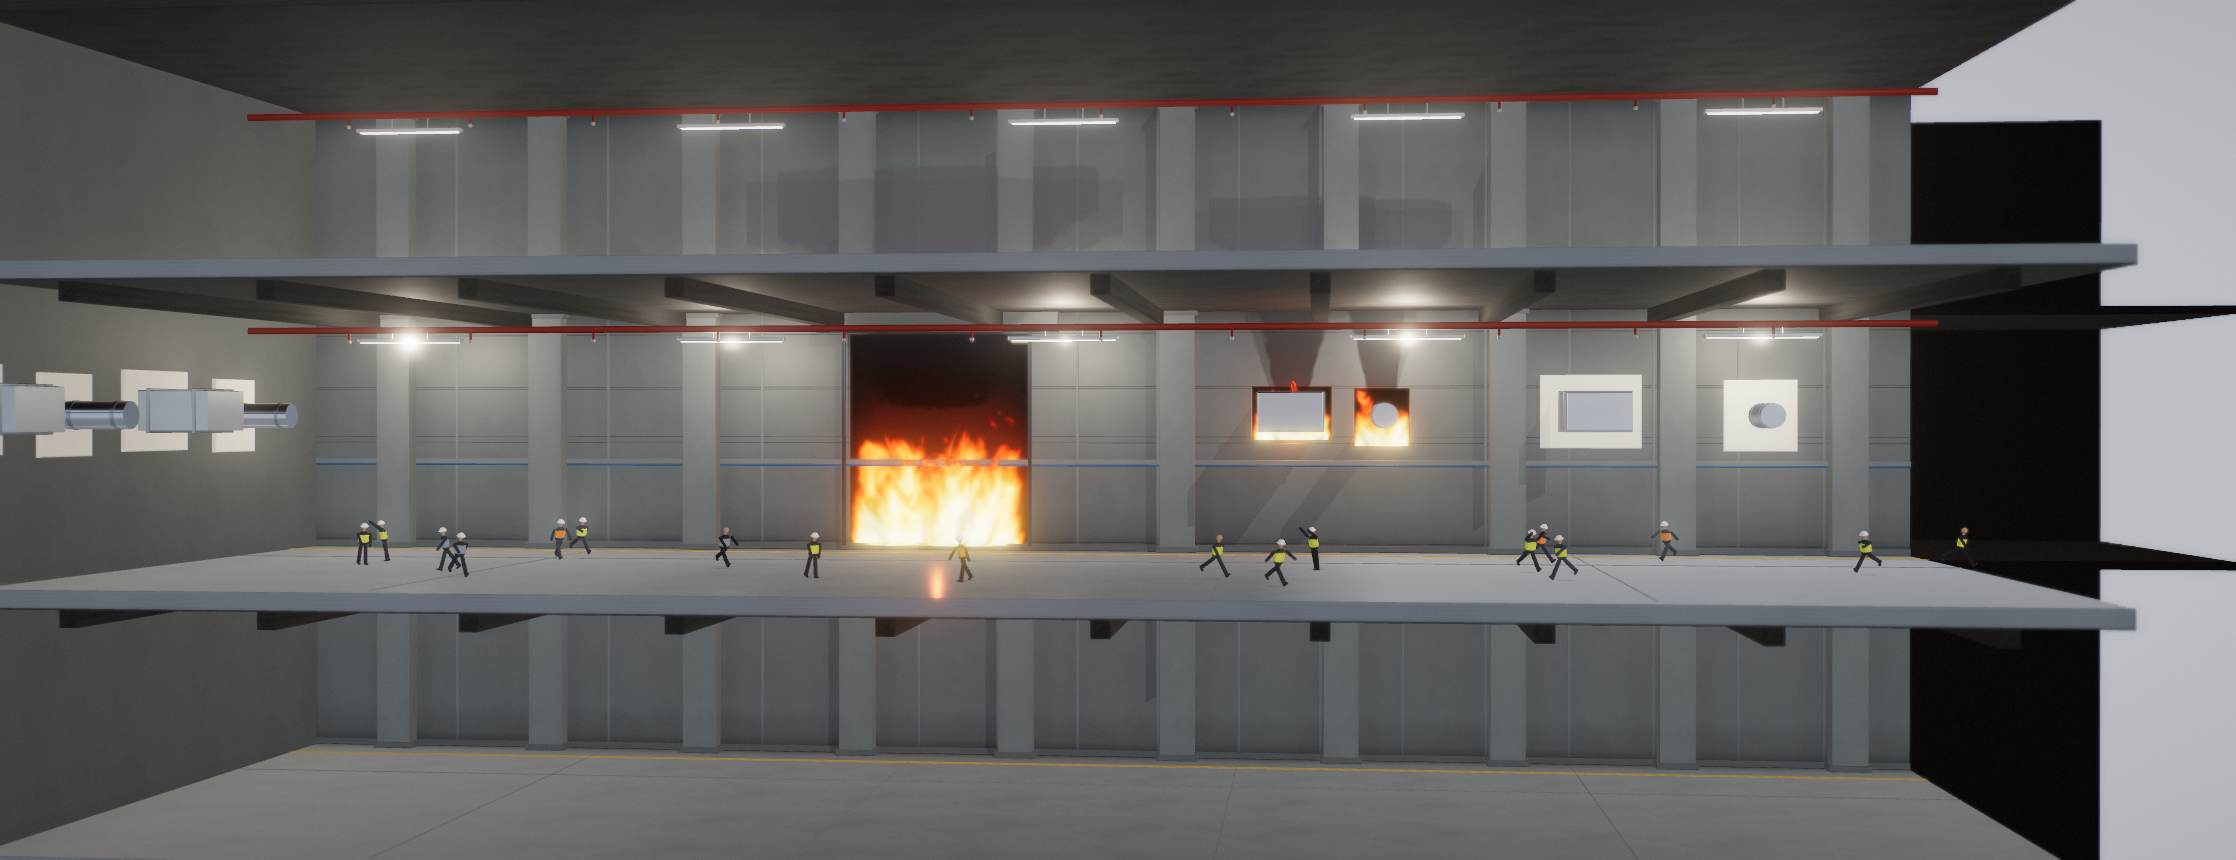
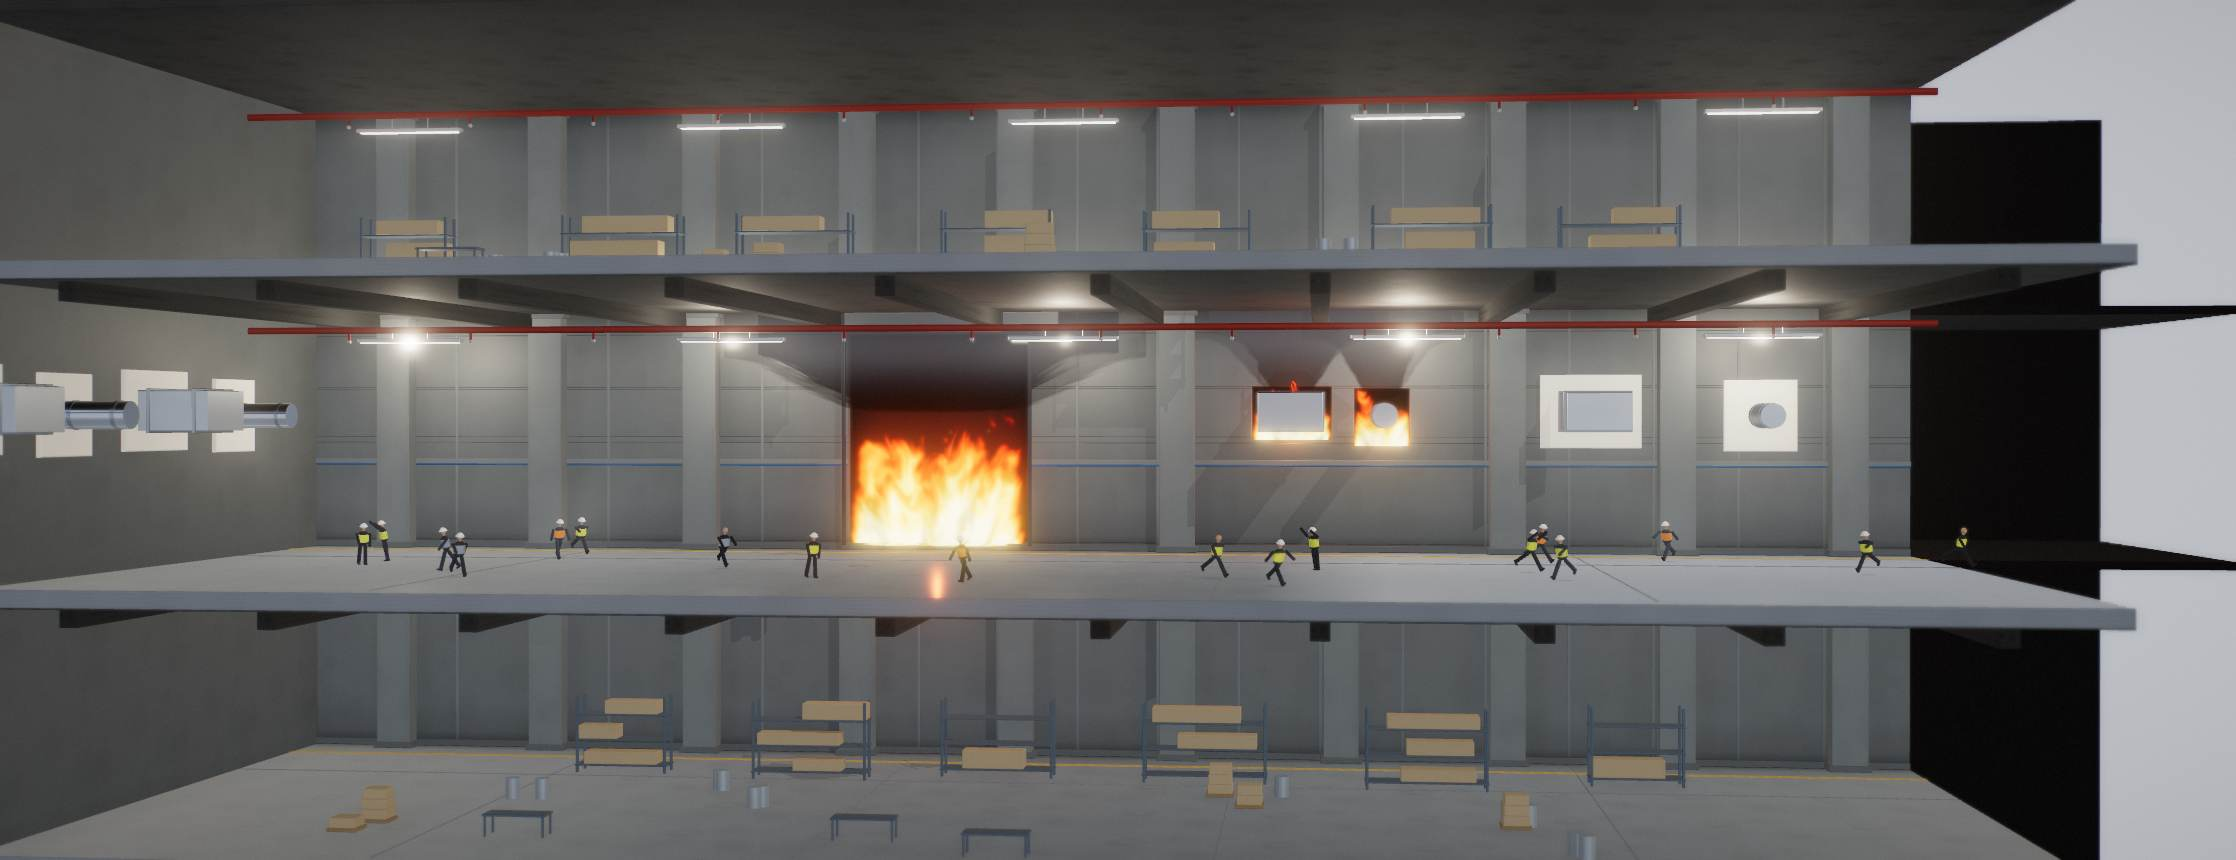
공중에 뜬 파란 줄 제거 · 불난 곳 연기 · 위아래 층 집기
사용자 지적 2건 + 다음 단계.

· **파란 유도 라인이 셔터 개구부를 가로질러 공중에 떠 있었다.** 벽에 칠한 선인데
  폭 전체로 한 번에 그린 탓. paintLine() 으로 그 높이에 걸린 개구부를 피해 토막으로 그린다.
· **연기가 안 보이던 원인** — 연기 판 높이가 12m 라 화재층 천장(6.9)을 뚫고 위층까지 뻗어
  있었다. 슬래브에 가려 정작 보이는 건 연기가 옅은 아랫부분뿐. 판을 천장까지로 자르고
  uCeil 을 천장 바로 아래에 둬서 거기서 옆으로 깔리게 했다(천장 제트).
  셔터 개구부는 와이드의 주역이라 가장 짙고 넓게.
· **위·아래 층 집기** — 텅 비어 있으면 '멀쩡한 층'이 아니라 '안 만든 층'으로 보인다.
  적재 랙·파렛트·작업대·드럼통. 사람 없이도 스케일이 읽힌다.
  ⚠ 배치에 Math.random 을 쓰면 열 때마다 배열이 달라져 **포스터와 어긋난다** → 씨드 난수.
  ⚠ 랙 파랑을 진하게 주면 불보다 먼저 눈에 들어온다 → 채도를 눌렀다.

diff --git a/company-site/assets/js/hero3d.js b/company-site/assets/js/hero3d.js
@@ -1223,8 +1223,21 @@ export async function initHero3D(canvas, host) {
       box(FW, 0.34, 0.1, matWallSide, (WX0 + WX1) / 2, L.y + 0.17, WALL_FRONT + 0.06, scene, false, true);
     }
     // 허리 라인 + 브랜드 파랑 유도 라인 — 화재층에만. 관리되는 시설의 신호다.
-    box(FW, 0.26, 0.12, matCol, (WX0 + WX1) / 2, FIRE_Y + 4.4, WALL_FRONT + 0.07, scene, false, false);
-    box(FW, 0.09, 0.13, matAccent, (WX0 + WX1) / 2, FIRE_Y + 4.24, WALL_FRONT + 0.075, scene, false, false);
+    // ⚠ **개구부를 가로지르면 안 된다.** 벽에 칠한 선이므로 개구부에서는 끊겨야 하는데,
+    //    폭 전체로 한 번에 그렸더니 셔터 개구부 한가운데를 지나 **공중에 떠 있는 줄**로 보였다.
+    //    (사용자가 지적한 문제) 그 높이에 걸린 개구부만 피해서 토막으로 그린다.
+    const paintLine = (y, h, d, mat, dz) => {
+      const gaps = OPENINGS.filter((o) => y > o.y - o.hh - 0.05 && y < o.y + o.hh + 0.05)
+        .map((o) => [o.x - o.hw, o.x + o.hw]).sort((a, b) => a[0] - b[0]);
+      let x = WX0;
+      const seg = (x0, x1) => {
+        if (x1 - x0 > 0.05) box(x1 - x0, h, d, mat, (x0 + x1) / 2, y, WALL_FRONT + dz, scene, false, false);
+      };
+      for (const [g0, g1] of gaps) { seg(x, g0); x = Math.max(x, g1); }
+      seg(x, WX1);
+    };
+    paintLine(FIRE_Y + 4.4,  0.26, 0.12, matCol,    0.07);
+    paintLine(FIRE_Y + 4.24, 0.09, 0.13, matAccent, 0.075);
 
     // ---- 층 슬래브 ---- 벽에서 카메라 쪽으로 뻗어 나오다 SECT_Z 에서 잘린다.
     //  잘린 단면(두께 0.7)이 그대로 보이는 게 '건물을 잘랐다'는 신호다.
@@ -1316,6 +1329,83 @@ export async function initHero3D(canvas, host) {
     box(WX1 - WX0 + 30, 0.4, 34, matDark, (WX0 + WX1) / 2, FIRE_Y - 0.4, WALL_Z - 17, scene, false, false); // 화재실 바닥
     box(WX1 - WX0 + 30, 0.4, 34, matDark, (WX0 + WX1) / 2, FIRE_CEIL - 0.2, WALL_Z - 17, scene, false, false); // 화재실 천장
   })();
+
+  // =====================================================================
+  //  층 집기 — 단면 와이드에서 위·아래 층이 텅 비어 있으면 '멀쩡한 층'이 아니라
+  //  '아직 안 만든 층'으로 보인다. 집기가 들어가야 층이 **쓰이고 있는 공간**이 되고,
+  //  동시에 사람 없이도 스케일이 읽힌다(마가켐은 사무 가구로 같은 일을 했다).
+  //
+  //  ⚠ 배치에 Math.random 을 쓰면 안 된다. 페이지를 열 때마다 배열이 달라지는데
+  //     포스터는 한 번 구워 고정이므로, 로딩이 끝나는 순간 집기가 **통째로 재배치**된다.
+  //     → 씨드 난수로 항상 같은 배열이 나오게 한다.
+  // =====================================================================
+  function mulberry32(a) {
+    return function () {
+      a |= 0; a = (a + 0x6D2B79F5) | 0;
+      let t = Math.imul(a ^ (a >>> 15), 1 | a);
+      t = (t + Math.imul(t ^ (t >>> 7), 61 | t)) ^ t;
+      return ((t ^ (t >>> 14)) >>> 0) / 4294967296;
+    };
+  }
+  // ⚠ 랙 파랑을 진하게 주면 **불보다 먼저 눈에 들어온다.** 마가켐이 건물을 무채색으로 눌러
+  //    불과 제품에만 채도를 준 이유가 이것이다. 집기는 있되 시선을 끌면 안 된다.
+  const matRack  = new THREE.MeshStandardMaterial({ color: 0x5c6b7a, roughness: 0.58, metalness: 0.3, envMapIntensity: 0.65 });
+  const matCrate = new THREE.MeshStandardMaterial({ color: 0xa8977c, roughness: 0.92 });
+  const matPallet= new THREE.MeshStandardMaterial({ color: 0x8d7a5c, roughness: 0.95 });
+  const matDrum  = new THREE.MeshStandardMaterial({ color: 0x9aa3ab, roughness: 0.42, metalness: 0.6, envMapIntensity: 0.9 });
+
+  function buildFloorContents(L, seed) {
+    const R = mulberry32(seed);
+    const y = L.y;
+    // 벽 앞 통행대(안전선 안쪽)와 잘린 면 근처는 비워 둔다 — 동선이 있어야 창고로 읽힌다
+    const z0 = WALL_FRONT + 4.2, z1 = SECT_Z - 3.5;
+    const rack = (cx, cz, len) => {
+      const H = Math.min(L.h - 1.6, 3.6), D = 1.2;
+      for (const sx of [-1, 1]) for (const sz of [-1, 1])            // 기둥 4
+        box(0.12, H, 0.12, matRack, cx + sx * (len / 2 - 0.1), y + H / 2, cz + sz * (D / 2 - 0.1), scene, true, true);
+      for (let i = 0; i < 3; i++) {                                   // 선반 3단 + 적재물
+        const sy = y + 0.35 + i * (H - 0.5) / 2.6;
+        box(len, 0.07, D, matRack, cx, sy, cz, scene, true, true);
+        if (R() > 0.28) {
+          const bw = len * (0.42 + R() * 0.4), bh = 0.5 + R() * 0.35;
+          box(bw, bh, D * 0.8, matCrate, cx + (R() - 0.5) * (len - bw), sy + bh / 2 + 0.04, cz, scene, true, true);
+        }
+      }
+    };
+    const palletStack = (cx, cz) => {
+      box(1.25, 0.14, 1.05, matPallet, cx, y + 0.07, cz, scene, true, true);
+      const n = 1 + Math.floor(R() * 3);
+      for (let i = 0; i < n; i++)
+        box(1.1 - i * 0.06, 0.42, 0.92 - i * 0.05, matCrate, cx, y + 0.14 + 0.21 + i * 0.42, cz, scene, true, true);
+    };
+    const bench = (cx, cz) => {
+      box(2.6, 0.09, 0.95, matRack, cx, y + 0.88, cz, scene, true, true);
+      for (const sx of [-1, 1]) for (const sz of [-1, 1])
+        box(0.09, 0.85, 0.09, matRack, cx + sx * 1.2, y + 0.43, cz + sz * 0.4, scene, true, true);
+    };
+    const drums = (cx, cz) => {
+      for (let i = 0; i < 2 + Math.floor(R() * 3); i++) {
+        const d = new THREE.Mesh(new THREE.CylinderGeometry(0.31, 0.31, 0.9, 16), matDrum);
+        d.position.set(cx + (R() - 0.5) * 1.8, y + 0.45, cz + (R() - 0.5) * 1.4);
+        d.castShadow = true; d.receiveShadow = true; scene.add(d);
+      }
+    };
+    // 벽을 따라 늘어선 랙 한 줄 + 바닥에 흩어진 집기
+    for (let cx = WX0 + 9; cx < WX1 - 6; cx += 9.5) {
+      if (R() > 0.22) rack(cx + (R() - 0.5) * 1.5, z0 + 1.2 + R() * 2.0, 4.2 + R() * 1.6);
+    }
+    for (let i = 0; i < 14; i++) {
+      const cx = WX0 + 6 + R() * (WX1 - WX0 - 12);
+      const cz = z0 + 5.0 + R() * (z1 - z0 - 5.0);
+      const k = R();
+      if (k < 0.42) palletStack(cx, cz);
+      else if (k < 0.74) bench(cx, cz);
+      else drums(cx, cz);
+    }
+  }
+  // 위·아래 층에만 — 화재층은 주역(개구부·보드·셔터)이 가려지면 안 된다
+  buildFloorContents(LEVELS[0], 20260805);
+  buildFloorContents(LEVELS[2], 77712345);
 
   // ---- 관통 배관 + 밴드 ----
   (function buildPipe() {
@@ -1553,15 +1643,22 @@ export async function initHero3D(canvas, host) {
   }
   // sheet: h 불 판 높이 / wpad 개구부보다 넓힐 폭 / z 겹의 z 오프셋 / alpha 겹별 알파 / boost 뻗는 높이 / speed 흐름
   // smoke: bottom 연기가 시작되는 높이 / h 판 높이 / wpad / z / alpha / density 짙기 / speed 상승 속도
+  // ⚠ **연기 판의 높이는 화재층 천장(FIRE_CEIL)에 맞춰야 한다.**
+  //    단면 구성으로 바뀌기 전에는 층 구분이 없어서 판을 12m 씩 세워뒀는데, 이제 그 높이면
+  //    슬래브를 뚫고 위층까지 올라간다. 슬래브에 가려 **정작 보이는 건 연기가 옅은 아랫부분뿐**이라
+  //    "불은 나는데 연기가 없다"로 보였다(사용자 지적). 천장까지로 잘라야 짙은 구간이 화면에 든다.
+  //    그리고 uCeil 을 천장 바로 아래에 두어 거기서 옆으로 깔리게 한다 — 실제 화재의 천장 제트.
+  const smokeH = (bottom) => FIRE_CEIL - bottom + 0.25;   // 천장에 살짝 물리게
   const rigPen = makeFireRig(PEN, 1.0, 0.25, 34,
     { h: 4.6, wpad: 0.5, z: [0.04, 0.5, 1.0], alpha: [0.96, 0.66, 0.4], boost: 2.02, speed: 1.7 },
-    { bottom: PEN.y + 0.7, h: 10.0, wpad: 4.0, z: [0.28, 0.9], alpha: [0.5, 0.32], density: 2.9, speed: 0.5, narrow: 0.12, flare: 0.4 });
+    { bottom: PEN.y + 0.7, h: smokeH(PEN.y + 0.7), wpad: 4.0, z: [0.28, 0.9], alpha: [0.56, 0.36], density: 3.1, speed: 0.5, narrow: 0.12, flare: 0.5, ceil: 0.72, ceilSpread: 0.9 });
   const rigDkt = makeFireRig(DUCT, 1.1, 0.25, 36,
     { h: 4.6, wpad: 0.5, z: [0.04, 0.5, 1.0], alpha: [0.96, 0.66, 0.4], boost: 2.02, speed: 1.75 },
-    { bottom: DUCT.y + 0.7, h: 10.0, wpad: 4.2, z: [0.28, 0.9], alpha: [0.5, 0.32], density: 2.9, speed: 0.52, narrow: 0.13, flare: 0.4 });
+    { bottom: DUCT.y + 0.7, h: smokeH(DUCT.y + 0.7), wpad: 4.2, z: [0.28, 0.9], alpha: [0.56, 0.36], density: 3.1, speed: 0.52, narrow: 0.13, flare: 0.5, ceil: 0.72, ceilSpread: 0.9 });
   const rigBig = makeFireRig(BIG, 2.4, 0.0, 62,
     { h: 12.0, wpad: 1.0, z: [0.04, 0.75, 1.6], alpha: [0.97, 0.7, 0.44], boost: 1.88, speed: 1.5 },
-    { bottom: BIG.y + 1.2, h: 12.5, wpad: 7.0, z: [0.4, 1.4], alpha: [0.6, 0.4], density: 3.0, speed: 0.42, narrow: 0.2, flare: 0.34 });
+    // 셔터 개구부는 크고 화재층 와이드에서 주역이라 연기를 가장 짙고 넓게
+    { bottom: BIG.y + 1.2, h: smokeH(BIG.y + 1.2), wpad: 9.0, z: [0.4, 1.4], alpha: [0.72, 0.5], density: 3.4, speed: 0.42, narrow: 0.26, flare: 0.62, ceil: 0.66, ceilSpread: 1.5 });
 
   // ---- 조명 ----
   // 앰비언트(hemi)를 낮추고 방향광(key)을 올리면 면마다 명암이 갈려 형태가 또렷해진다.

diff --git a/company-site/index.html b/company-site/index.html
@@ -21,15 +21,15 @@
 
     <link rel="icon" type="image/png" href="assets/images/doenc_mark.png">
     <!-- 히어로 첫 화면 — 화면 비율 단계별로 한 장만 받는다 (경계는 style.css / hero3d.js resize() 와 동일) -->
-    <link rel="preload" as="image" href="assets/images/hero-poster-w.jpg?v=20260805c" media="(min-aspect-ratio: 8/5)" fetchpriority="high">
-    <link rel="preload" as="image" href="assets/images/hero-poster-m.jpg?v=20260805c" media="(min-aspect-ratio: 6/5) and (max-aspect-ratio: 8/5)" fetchpriority="high">
-    <link rel="preload" as="image" href="assets/images/hero-poster-n.jpg?v=20260805c" media="(min-aspect-ratio: 4/5) and (max-aspect-ratio: 6/5)" fetchpriority="high">
-    <link rel="preload" as="image" href="assets/images/hero-poster-p.jpg?v=20260805c" media="(max-aspect-ratio: 4/5)" fetchpriority="high">
+    <link rel="preload" as="image" href="assets/images/hero-poster-w.jpg?v=20260805d" media="(min-aspect-ratio: 8/5)" fetchpriority="high">
+    <link rel="preload" as="image" href="assets/images/hero-poster-m.jpg?v=20260805d" media="(min-aspect-ratio: 6/5) and (max-aspect-ratio: 8/5)" fetchpriority="high">
+    <link rel="preload" as="image" href="assets/images/hero-poster-n.jpg?v=20260805d" media="(min-aspect-ratio: 4/5) and (max-aspect-ratio: 6/5)" fetchpriority="high">
+    <link rel="preload" as="image" href="assets/images/hero-poster-p.jpg?v=20260805d" media="(max-aspect-ratio: 4/5)" fetchpriority="high">
 
     <!-- 3D 모듈을 미리 받아둔다. 없으면 main.js → hero3d.js → three.module → three.core 로
          **네 번 순차 왕복**하느라 750KB 를 다 받을 때까지 포스터가 계속 떠 있는다.
          ⚠ href 는 실제 import 주소와 **글자 그대로 같아야** 캐시가 재사용된다(쿼리 포함). -->
-    <link rel="modulepreload" href="assets/js/hero3d.js?v=20260805c">
+    <link rel="modulepreload" href="assets/js/hero3d.js?v=20260805d">
     <link rel="modulepreload" href="assets/js/vendor/three.module.min.js">
     <link rel="modulepreload" href="assets/js/vendor/three.core.min.js">
 
@@ -76,7 +76,7 @@
     <link rel="stylesheet" href="https://cdn.jsdelivr.net/gh/orioncactus/pretendard@v1.3.9/dist/web/variable/pretendardvariable-dynamic-subset.min.css"
           media="print" onload="this.media='all'">
     <noscript><link rel="stylesheet" href="https://cdn.jsdelivr.net/gh/orioncactus/pretendard@v1.3.9/dist/web/variable/pretendardvariable-dynamic-subset.min.css"></noscript>
-    <link rel="stylesheet" href="assets/css/style.css?v=20260805c">
+    <link rel="stylesheet" href="assets/css/style.css?v=20260805d">
     <noscript><style>.reveal{opacity:1!important;transform:none!important}</style></noscript>
 </head>
 <body id="top">
@@ -178,7 +178,7 @@
         <section class="hero" id="home">
             <!-- ▼ 히어로 미디어 슬롯
                  실사 영상/사진을 받으면 아래 주석 한 줄만 살리면 도면 그래픽이 자동 교체됩니다.
-                 <video autoplay muted loop playsinline poster="assets/images/hero-poster-w.jpg?v=20260805c">
+                 <video autoplay muted loop playsinline poster="assets/images/hero-poster-w.jpg?v=20260805d">
                      <source src="assets/images/hero.mp4" type="video/mp4"></video>
                  또는  <img src="assets/images/hero.jpg" alt="">                        -->
             <div class="hero-media" id="heroMedia" aria-hidden="true">
@@ -917,14 +917,14 @@
         <a class="to-top" href="#top" aria-label="맨 위로">↑</a>
     </footer>
 
-    <script src="assets/js/main.js?v=20260805c"></script>
+    <script src="assets/js/main.js?v=20260805d"></script>
     <script type="module">
       // 히어로 3D는 첫 화면이 그려진 뒤에 불러온다 (본문 표시를 늦추지 않도록)
       var canvas = document.getElementById("hero3d");
       var host = document.getElementById("heroMedia");
       var gl = canvas && canvas.getContext && (canvas.getContext("webgl2") || canvas.getContext("webgl"));
       if (gl) {
-        import("./assets/js/hero3d.js?v=20260805c")
+        import("./assets/js/hero3d.js?v=20260805d")
           .then(function (m) { return m.initHero3D(canvas, host); })
           // 1회 재생이라 replay()로 다시 볼 수 있게 API를 전역에 둔다.
           // ⚠ window.hero3d 는 <canvas id="hero3d"> 와 이름이 겹치므로 heroFilm 을 정식 이름으로 쓴다.

diff --git a/company-site/assets/css/style.css b/company-site/assets/css/style.css
@@ -258,11 +258,11 @@ svg { display: block; width: 100%; height: auto; }
 .hero-media {
     position: absolute; inset: 0; overflow: hidden;
     background: #83786f center center / auto 100% no-repeat;
-    background-image: url("../images/hero-poster-p.jpg?v=20260805c");           /*        a < 0.8 */
+    background-image: url("../images/hero-poster-p.jpg?v=20260805d");           /*        a < 0.8 */
 }
-@media (min-aspect-ratio: 4/5) { .hero-media { background-image: url("../images/hero-poster-n.jpg?v=20260805c"); } }  /* 0.8 <= a < 1.2 */
-@media (min-aspect-ratio: 6/5) { .hero-media { background-image: url("../images/hero-poster-m.jpg?v=20260805c"); } }  /* 1.2 <= a < 1.6 */
-@media (min-aspect-ratio: 8/5) { .hero-media { background-image: url("../images/hero-poster-w.jpg?v=20260805c"); } }  /* 1.6 <= a       */
+@media (min-aspect-ratio: 4/5) { .hero-media { background-image: url("../images/hero-poster-n.jpg?v=20260805d"); } }  /* 0.8 <= a < 1.2 */
+@media (min-aspect-ratio: 6/5) { .hero-media { background-image: url("../images/hero-poster-m.jpg?v=20260805d"); } }  /* 1.2 <= a < 1.6 */
+@media (min-aspect-ratio: 8/5) { .hero-media { background-image: url("../images/hero-poster-w.jpg?v=20260805d"); } }  /* 1.6 <= a       */
 
 /* 사실적 3D 캔버스 — 준비되면 폴백 위로 나타난다.
    포스터가 곧 같은 프레임이므로 길게 겹칠 이유가 없다 — 짧게 넘겨야 갈아타는 게 안 보인다 */

diff --git a/company-site/archive.html b/company-site/archive.html
@@ -37,7 +37,7 @@
     <link rel="stylesheet" href="https://cdn.jsdelivr.net/gh/orioncactus/pretendard@v1.3.9/dist/web/variable/pretendardvariable-dynamic-subset.min.css"
           media="print" onload="this.media='all'">
     <noscript><link rel="stylesheet" href="https://cdn.jsdelivr.net/gh/orioncactus/pretendard@v1.3.9/dist/web/variable/pretendardvariable-dynamic-subset.min.css"></noscript>
-    <link rel="stylesheet" href="assets/css/style.css?v=20260805c">
+    <link rel="stylesheet" href="assets/css/style.css?v=20260805d">
     <noscript><style>.reveal{opacity:1!important;transform:none!important}</style></noscript>
 </head>
 <body id="top">
@@ -198,8 +198,8 @@
         </div>
     </div>
 
-    <script src="assets/js/main.js?v=20260805c"></script>
-    <script src="assets/js/pages.js?v=20260805c"></script>
+    <script src="assets/js/main.js?v=20260805d"></script>
+    <script src="assets/js/pages.js?v=20260805d"></script>
     <script>
       DOENC.initArchive();
     </script>

diff --git a/company-site/support.html b/company-site/support.html
@@ -37,7 +37,7 @@
     <link rel="stylesheet" href="https://cdn.jsdelivr.net/gh/orioncactus/pretendard@v1.3.9/dist/web/variable/pretendardvariable-dynamic-subset.min.css"
           media="print" onload="this.media='all'">
     <noscript><link rel="stylesheet" href="https://cdn.jsdelivr.net/gh/orioncactus/pretendard@v1.3.9/dist/web/variable/pretendardvariable-dynamic-subset.min.css"></noscript>
-    <link rel="stylesheet" href="assets/css/style.css?v=20260805c">
+    <link rel="stylesheet" href="assets/css/style.css?v=20260805d">
     <noscript><style>.reveal{opacity:1!important;transform:none!important}</style></noscript>
 </head>
 <body id="top">
@@ -198,8 +198,8 @@
         </div>
     </div>
 
-    <script src="assets/js/main.js?v=20260805c"></script>
-    <script src="assets/js/pages.js?v=20260805c"></script>
+    <script src="assets/js/main.js?v=20260805d"></script>
+    <script src="assets/js/pages.js?v=20260805d"></script>
     <script>
       DOENC.initSupport();
     </script>

diff --git a/company-site/about.html b/company-site/about.html
@@ -37,7 +37,7 @@
     <link rel="stylesheet" href="https://cdn.jsdelivr.net/gh/orioncactus/pretendard@v1.3.9/dist/web/variable/pretendardvariable-dynamic-subset.min.css"
           media="print" onload="this.media='all'">
     <noscript><link rel="stylesheet" href="https://cdn.jsdelivr.net/gh/orioncactus/pretendard@v1.3.9/dist/web/variable/pretendardvariable-dynamic-subset.min.css"></noscript>
-    <link rel="stylesheet" href="assets/css/style.css?v=20260805c">
+    <link rel="stylesheet" href="assets/css/style.css?v=20260805d">
     <noscript><style>.reveal{opacity:1!important;transform:none!important}</style></noscript>
 </head>
 <body id="top">
@@ -545,7 +545,7 @@
         </div>
     </div>
 
-    <script src="assets/js/main.js?v=20260805c"></script>
-    <script src="assets/js/pages.js?v=20260805c"></script>
+    <script src="assets/js/main.js?v=20260805d"></script>
+    <script src="assets/js/pages.js?v=20260805d"></script>
 </body>
 </html>
